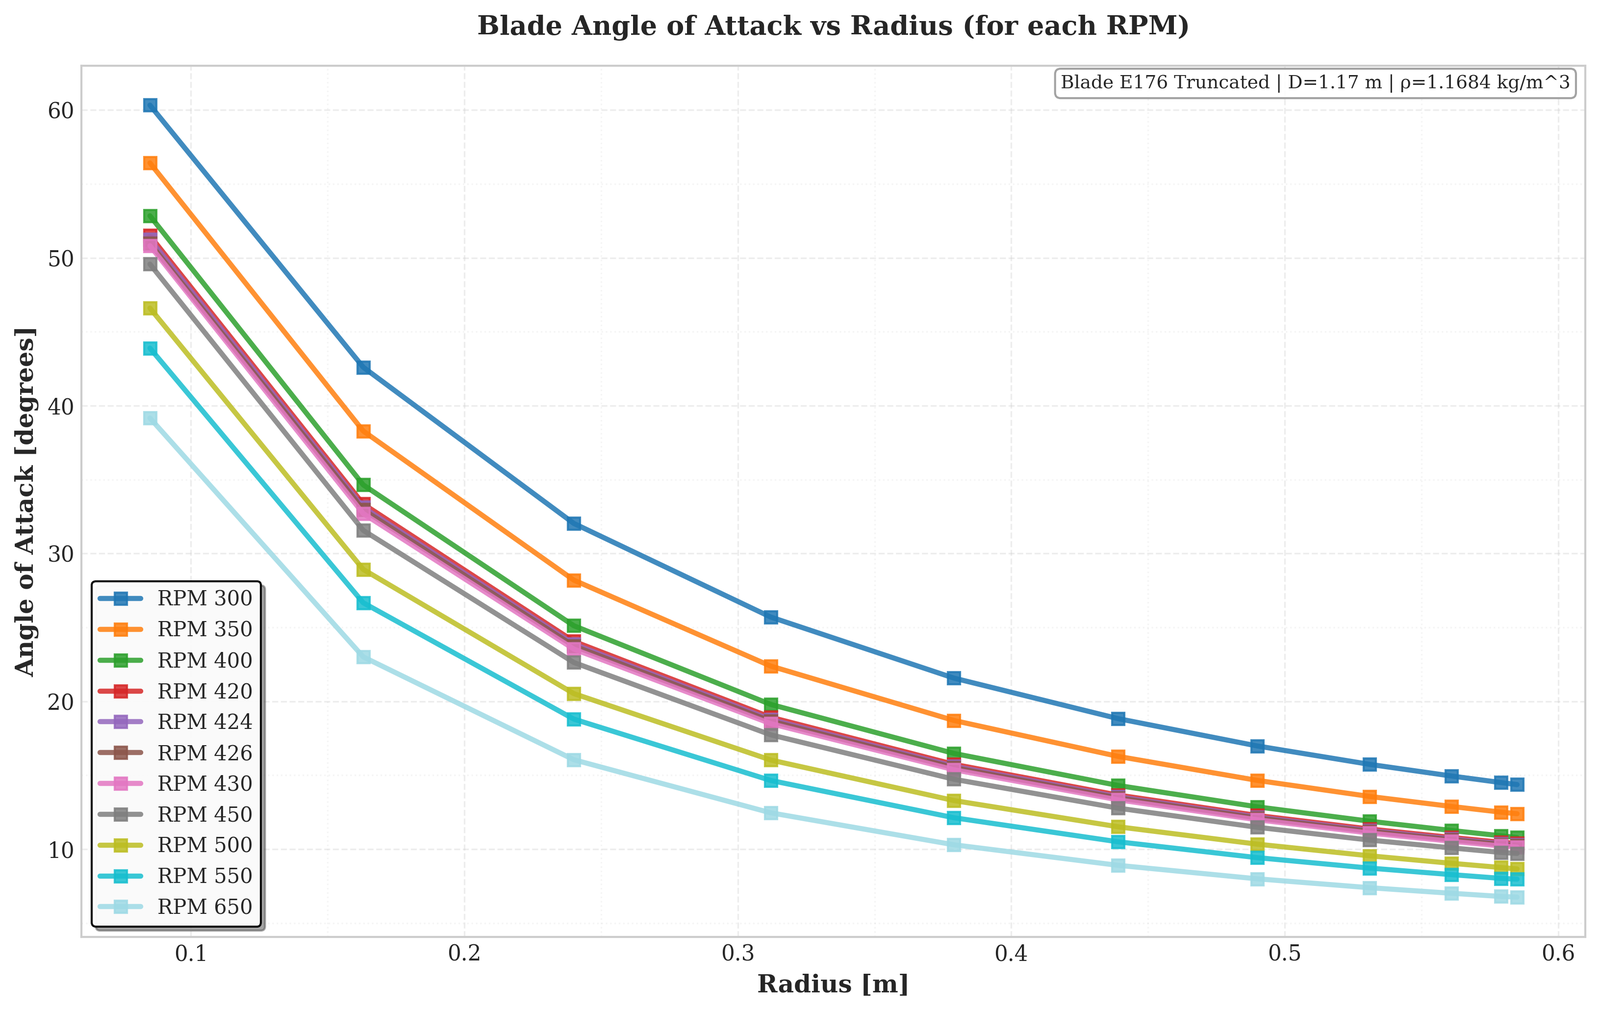
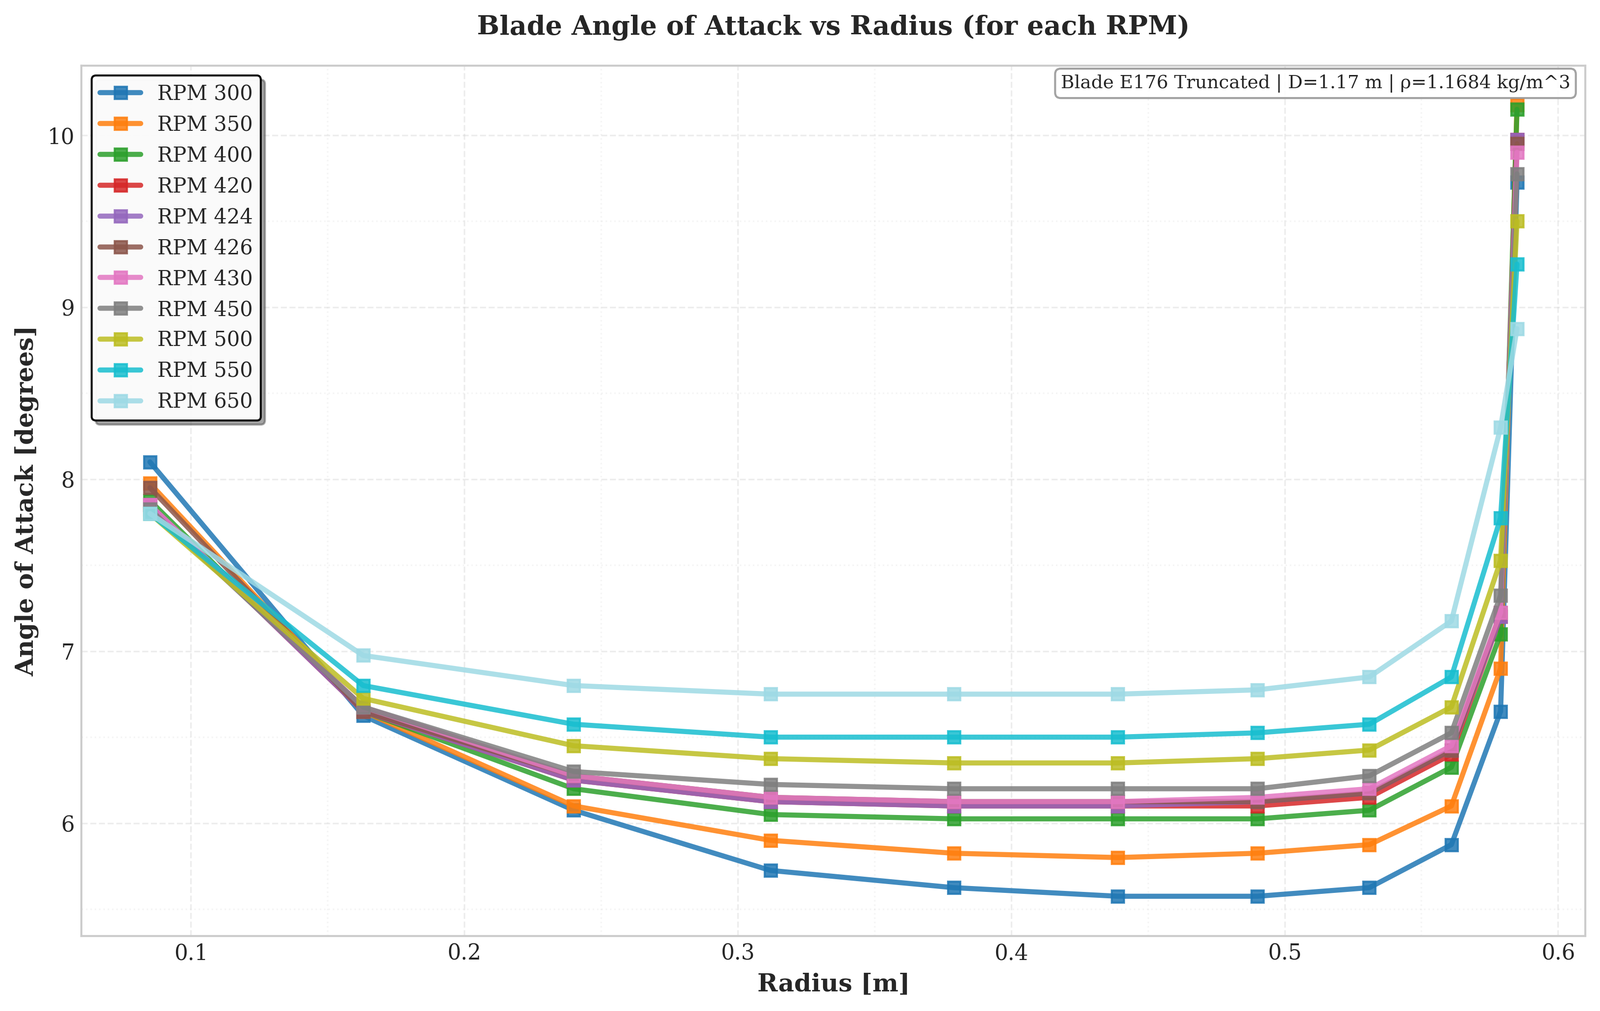
Fix angle-of-attack plot: use the AoA column, not the flow angle
header_matches_aoa() matched any header containing 'angle', so with BEM
output it picked 'Flow Angle phi' (the first such column) instead of
'Angle of Attach alpha'. The AoA plots therefore showed the flow angle
(about 10-60 deg) instead of the real angle of attack (about 5.5-10 deg).

- Exclude flow, pitch and twist angles from the AoA match
- Regenerate the AoA plots for E176 and S900 (other results unchanged)
- README: note that the blade operates well below stall

diff --git a/src/rpm2.py b/src/rpm2.py
@@ -137,7 +137,10 @@ def header_matches_aoa(h):
     if not isinstance(h, str):
         return False
     hh = h.strip().lower()
-    keywords = ["angle of attack", "aoa", "alpha", "a.o.a", "a o a", "angle", "attack"]
+    # Other angles in BEM output (flow angle phi, pitch/twist angle beta) must not be taken for the AoA
+    if any(x in hh for x in ("flow", "phi", "pitch", "beta", "twist")):
+        return False
+    keywords = ["angle of attack", "angle of attach", "aoa", "alpha", "a.o.a", "a o a", "attack"]
     for kw in keywords:
         if kw in hh:
             return True

diff --git a/README.md b/README.md
@@ -63,6 +63,10 @@ Blade-element results at a set of rotor speeds (`data/`) are turned into a smoot
 |---|---|
 | ![Cl/Cd vs radius](figures/optimization/e176_cl_cd_vs_radius.png) | ![AoA vs radius](figures/optimization/e176_aoa_vs_radius.png) |
 
+Along most of the span the blade works at an angle of attack of about 5.5–8°, rising to about 10° only at the
+very tip, so it stays well below stall (about 18–20°) at every rotor speed. The lift-to-drag ratio peaks at
+about 60 near the optimum speed and is highest at low speeds.
+
 The same analysis on the **S900-Truncated** airfoil (`data/S900_truncated.csv`) gives an optimum at
 409.3 rpm; its plots are in `figures/optimization/`.
 
